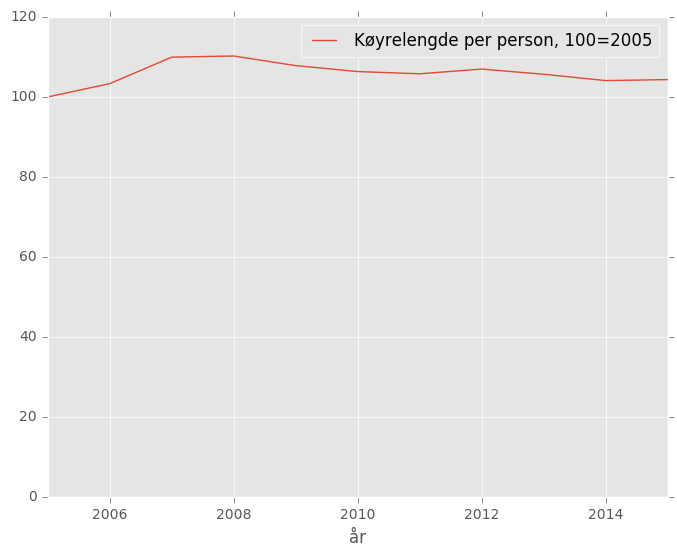
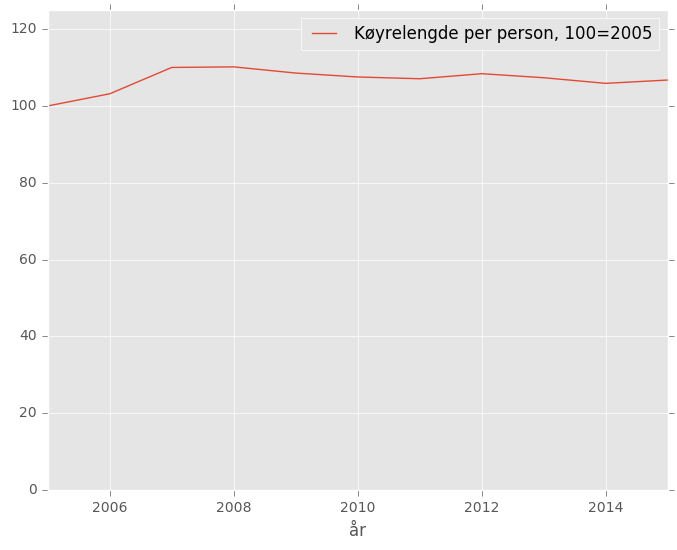
update

diff --git a/koyrelengde.py b/koyrelengde.py
@@ -4,13 +4,15 @@ from pyjstat import pyjstat
 import requests
 from collections import OrderedDict
 import pandas as pd
+import pylab
+import sys
 import matplotlib.pyplot
 import matplotlib
 matplotlib.style.use('ggplot')
 
 def kjorelengde():
     url = 'http://data.ssb.no/api/v0/no/table/07301'
-    payload = {"query": [{"code": "Kjoretoytype", "selection": {"filter": "item", "values": ["TOT",]}}, {"code": "ContentsCode", "selection": {"filter": "item", "values": ["Kjorekm"]}}, {"code": "Tid", "selection": {"filter": "all", "values": ["*"        ]}}], "response": {"format": "json-stat"}}
+    payload = {"query": [{"code": "Kjoretoytype", "selection": {"filter": "item", "values": ["15",]}}, {"code": "ContentsCode", "selection": {"filter": "item", "values": ["Kjorekm"]}}, {"code": "Tid", "selection": {"filter": "all", "values": ["*"        ]}}], "response": {"format": "json-stat"}}
     data = requests.post(url, json = payload)
     result = pyjstat.from_json_stat(data.json(object_pairs_hook=OrderedDict))
     frame = result[0]
@@ -40,7 +42,8 @@ if __name__=="__main__":
     ss = m.loc[:, [desc]]
     plot = ss.plot()
     (xmin, xmax, _, _) = plot.axis()
-    plot.axis((xmin, xmax, 0.0, 120.0))
-    import pylab
-    pylab.savefig('koyrelengde_per_person.png', bbox_inches='tight')
-
+    plot.axis((xmin, xmax, 0.0, 125.0))
+    if "--docker" in sys.argv:
+        pylab.savefig('output/koyrelengde_per_person.png', bbox_inches='tight')
+    else:
+        pylab.savefig('koyrelengde_per_person.png', bbox_inches='tight')
